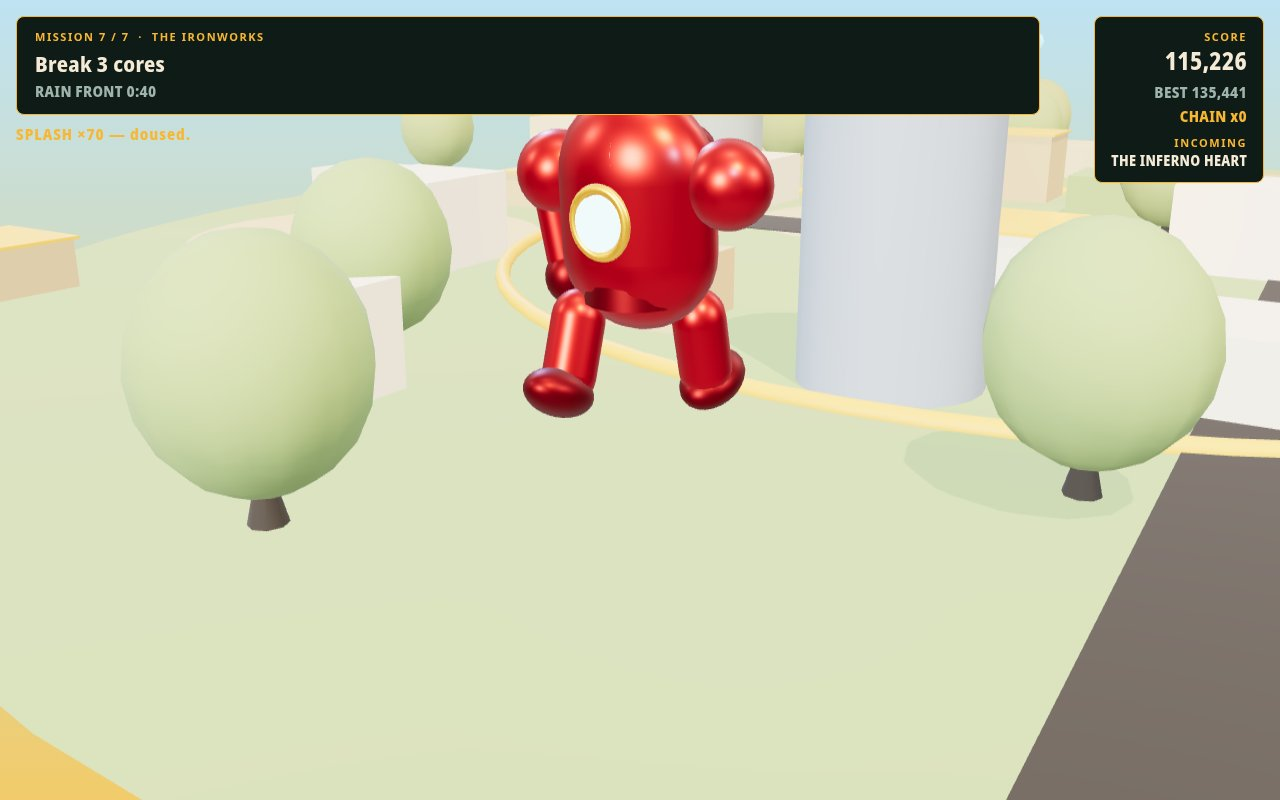
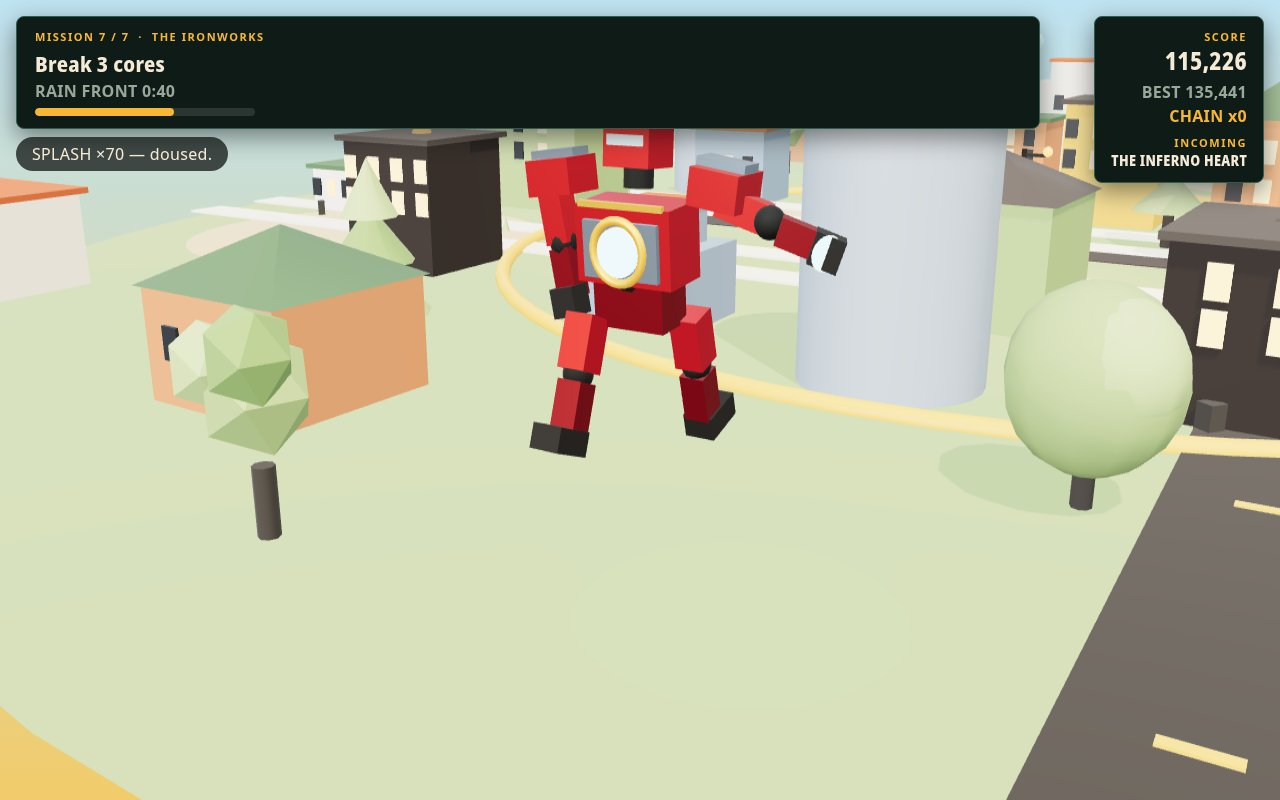
M7c2 play camera high/pullback (out of flame band) + title camera sky

diff --git a/game/src/scene3d.js b/game/src/scene3d.js
@@ -91,11 +91,11 @@ export function createScene(canvas) {
 
     // --- Camera per view ---
     if (view === 'play') {
-      camera.position.set(state.hero.x + 6.5, 5.2, state.hero.z + 10.5);
+      camera.position.set(state.hero.x + 7, 12, state.hero.z + 13);
       camera.lookAt(state.hero.x, 1.2, state.hero.z);
     } else if (view === 'title') {
-      camera.position.set(0, 14, 26);
-      camera.lookAt(0, 0, 6);
+      camera.position.set(0, 11, 28);
+      camera.lookAt(0, 4, 2);
     } else if (view === 'draft') {
       camera.position.set(0, 11, 25);
       camera.lookAt(0, 1, 2);
